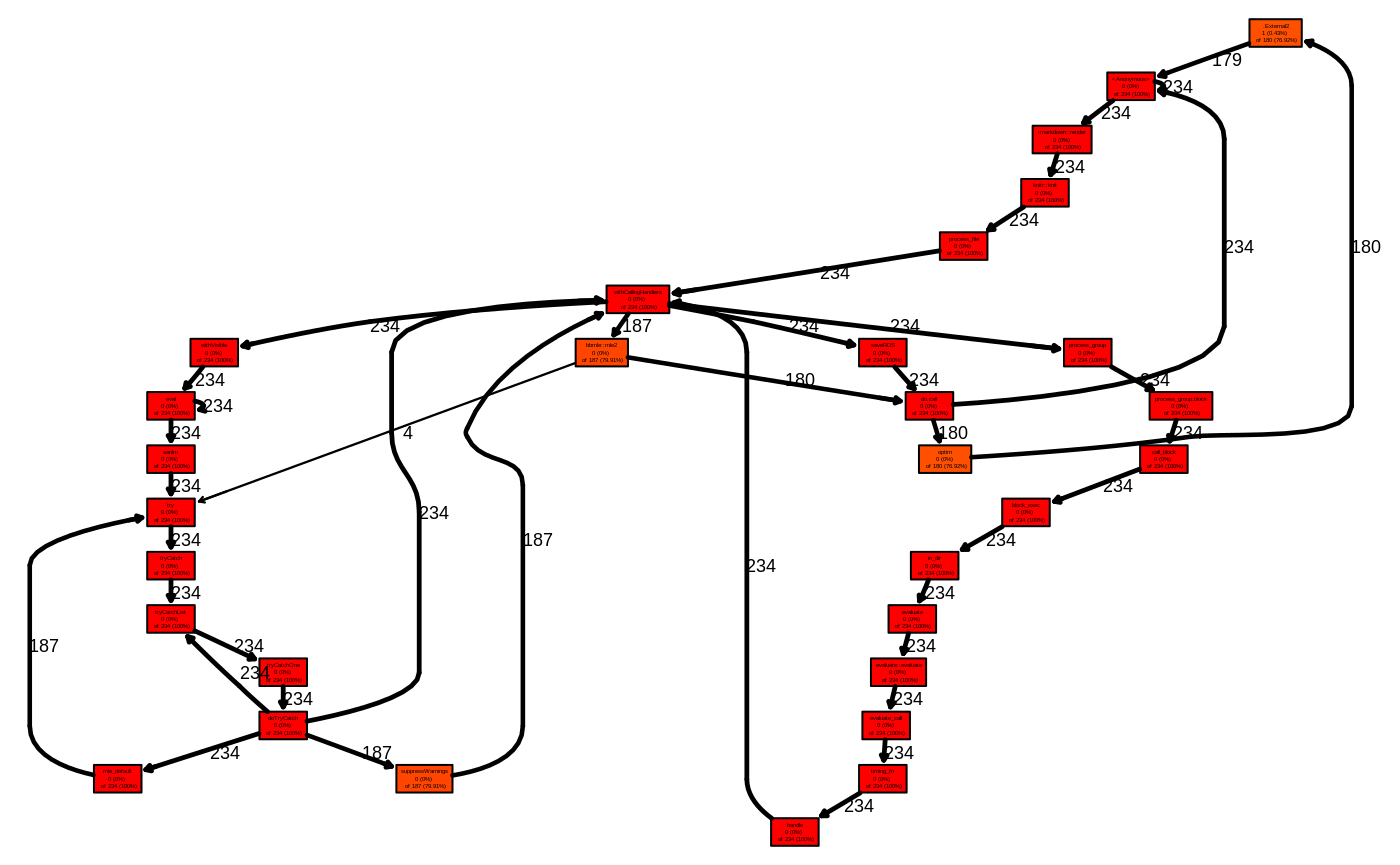
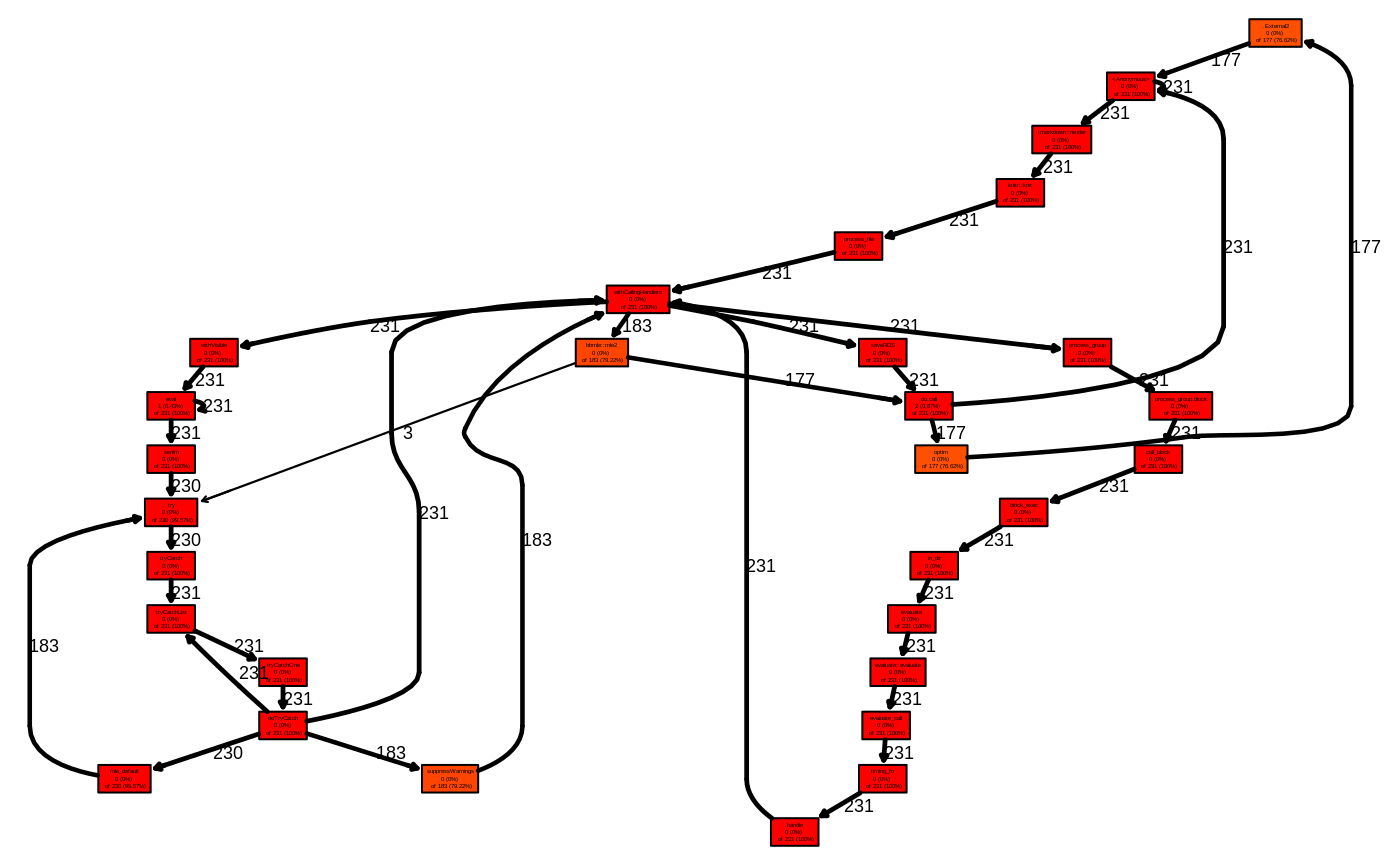
Built site for senlm: 0.1@ff31556

diff --git a/articles/performance_analysis.html b/articles/performance_analysis.html
@@ -139,83 +139,84 @@
 <a class="sourceLine" id="cb2-4" data-line-number="4">## --- Summarise the Profiling Data --- #</a>
 <a class="sourceLine" id="cb2-5" data-line-number="5"><span class="kw"><a href="https://rdrr.io/pkg/proftools/man/summaries.html">pathSummary</a></span>(pd)</a>
 <a class="sourceLine" id="cb2-6" data-line-number="6"><span class="co">#&gt;                                                    total.pct</span></a>
-<a class="sourceLine" id="cb2-7" data-line-number="7"><span class="co">#&gt; ...  fn -&gt; do.call -&gt; minuslogl -&gt; NLL.discrete        23.93</span></a>
-<a class="sourceLine" id="cb2-8" data-line-number="8"><span class="co">#&gt; ...  NLL.discrete -&gt; do.call -&gt; mu_gaussian             5.98</span></a>
-<a class="sourceLine" id="cb2-9" data-line-number="9"><span class="co">#&gt; ...  minuslogl -&gt; NLL.discrete -&gt; make_bounded          5.98</span></a>
-<a class="sourceLine" id="cb2-10" data-line-number="10"><span class="co">#&gt; ...  minuslogl -&gt; NLL.discrete -&gt; NLL.negbin            5.56</span></a>
-<a class="sourceLine" id="cb2-11" data-line-number="11"><span class="co">#&gt; ...  &lt;Anonymous&gt; -&gt; lazyLoadDBfetch                     5.56</span></a>
-<a class="sourceLine" id="cb2-12" data-line-number="12"><span class="co">#&gt; ...  optim -&gt; .External2 -&gt; &lt;Anonymous&gt; -&gt; fn           3.42</span></a>
-<a class="sourceLine" id="cb2-13" data-line-number="13"><span class="co">#&gt; ...  check_par_valid -&gt; make_bounded                    3.42</span></a>
-<a class="sourceLine" id="cb2-14" data-line-number="14"><span class="co">#&gt; ...  minuslogl -&gt; NLL.discrete -&gt; check_par_valid       2.99</span></a>
-<a class="sourceLine" id="cb2-15" data-line-number="15"><span class="co">#&gt; ...  do.call -&gt; minuslogl -&gt; NLL.discrete -&gt; sum        2.14</span></a>
-<a class="sourceLine" id="cb2-16" data-line-number="16"><span class="co">#&gt; ...  fn -&gt; relist2 -&gt; sapply -&gt; simplify2array          1.71</span></a>
-<a class="sourceLine" id="cb2-17" data-line-number="17"><span class="co">#&gt; ...  fn -&gt; relist2 -&gt; sapply -&gt; lapply                  1.71</span></a>
-<a class="sourceLine" id="cb2-18" data-line-number="18"><span class="co">#&gt; ...  do.call -&gt; mu_gaussian -&gt; as.list                  1.71</span></a>
-<a class="sourceLine" id="cb2-19" data-line-number="19"><span class="co">#&gt; ...  relist2 -&gt; sapply -&gt; simplify2array -&gt; unique      1.28</span></a>
-<a class="sourceLine" id="cb2-20" data-line-number="20"><span class="co">#&gt; ...  NLL.discrete -&gt; NLL.negbin -&gt; lfactorial           1.28</span></a>
-<a class="sourceLine" id="cb2-21" data-line-number="21"><span class="co">#&gt; ...  getGroupMembers -&gt; .recMembers -&gt; is               1.28</span></a>
-<a class="sourceLine" id="cb2-22" data-line-number="22"><span class="co">#&gt; ...  fn -&gt; relist2 -&gt; sapply -&gt; isFALSE                 1.28</span></a>
-<a class="sourceLine" id="cb2-23" data-line-number="23"><span class="co">#&gt; ...  do.call -&gt; minuslogl -&gt; NLL.discrete -&gt; $          1.28</span></a>
-<a class="sourceLine" id="cb2-24" data-line-number="24"><span class="co">#&gt; ...  do.call -&gt; minuslogl -&gt; NLL.discrete               1.28</span></a>
-<a class="sourceLine" id="cb2-25" data-line-number="25"><span class="co">#&gt; ...  &lt;Anonymous&gt; -&gt; fn -&gt; relist2 -&gt; sapply             1.28</span></a>
-<a class="sourceLine" id="cb2-26" data-line-number="26"><span class="co">#&gt; ...  &lt;Anonymous&gt; -&gt; fn -&gt; relist2 -&gt; as.list            1.28</span></a>
-<a class="sourceLine" id="cb2-27" data-line-number="27"><span class="co">#&gt; ...  .External2 -&gt; &lt;Anonymous&gt; -&gt; fn -&gt; order           1.28</span></a>
-<a class="sourceLine" id="cb2-28" data-line-number="28"><span class="co">#&gt; ...  simplify2array -&gt; unique -&gt; unique.default         0.85</span></a>
-<a class="sourceLine" id="cb2-29" data-line-number="29"><span class="co">#&gt; ...  relist2 -&gt; sapply -&gt; lapply -&gt; match.fun           0.85</span></a>
-<a class="sourceLine" id="cb2-30" data-line-number="30"><span class="co">#&gt; ...  NLL.discrete -&gt; NLL.negbin -&gt; sum                  0.85</span></a>
-<a class="sourceLine" id="cb2-31" data-line-number="31"><span class="co">#&gt; ...  namedrop -&gt; unique -&gt; unique.default               0.85</span></a>
-<a class="sourceLine" id="cb2-32" data-line-number="32"><span class="co">#&gt; ...  minuslogl -&gt; NLL.discrete -&gt; do.call -&gt; paste      0.85</span></a>
-<a class="sourceLine" id="cb2-33" data-line-number="33"><span class="co">#&gt; ...  .updateMethodsInTable                              0.85</span></a>
-<a class="sourceLine" id="cb2-34" data-line-number="34"><span class="co">#&gt; ...  .resetInheritedMethods                             0.85</span></a>
-<a class="sourceLine" id="cb2-35" data-line-number="35"><span class="co">#&gt; ...  .recacheSubclasses -&gt; sort.list -&gt; match.arg       0.85</span></a>
-<a class="sourceLine" id="cb2-36" data-line-number="36"><span class="co">#&gt; ...  .External2 -&gt; &lt;Anonymous&gt; -&gt; fn -&gt; namedrop        0.85</span></a>
-<a class="sourceLine" id="cb2-37" data-line-number="37"><span class="co">#&gt; ...  .cacheGeneric -&gt; .cacheGenericTable                0.85</span></a>
-<a class="sourceLine" id="cb2-38" data-line-number="38"><span class="co">#&gt; ...  sort.list -&gt; order -&gt; match.arg -&gt; pmatch          0.43</span></a>
-<a class="sourceLine" id="cb2-39" data-line-number="39"><span class="co">#&gt; ...  sapply -&gt; simplify2array -&gt; unique -&gt; lengths      0.43</span></a>
-<a class="sourceLine" id="cb2-40" data-line-number="40"><span class="co">#&gt; ...  optim -&gt; .External2 -&gt; &lt;Anonymous&gt; -&gt; fn -&gt; c      0.43</span></a>
-<a class="sourceLine" id="cb2-41" data-line-number="41"><span class="co">#&gt; ...  NLL.discrete -&gt; check_par_valid -&gt; any             0.43</span></a>
-<a class="sourceLine" id="cb2-42" data-line-number="42"><span class="co">#&gt; ...  NLL.discrete -&gt; check_par_valid -&gt; $               0.43</span></a>
-<a class="sourceLine" id="cb2-43" data-line-number="43"><span class="co">#&gt; ...  loadNamespace -&gt; namespaceExport                   0.43</span></a>
-<a class="sourceLine" id="cb2-44" data-line-number="44"><span class="co">#&gt; ...  list2env -&gt; as.list -&gt; as.list.default             0.43</span></a>
-<a class="sourceLine" id="cb2-45" data-line-number="45"><span class="co">#&gt; ...  lazyLoad -&gt; lazyLoadDBexec -&gt; readRDS              0.43</span></a>
-<a class="sourceLine" id="cb2-46" data-line-number="46"><span class="co">#&gt; ...  lapply -&gt; FUN -&gt; lapply -&gt; FUN -&gt; c                0.43</span></a>
-<a class="sourceLine" id="cb2-47" data-line-number="47"><span class="co">#&gt; ...  getGroupMembers -&gt; .recMembers -&gt; getGeneric       0.43</span></a>
-<a class="sourceLine" id="cb2-48" data-line-number="48"><span class="co">#&gt; ...  getGeneric -&gt; .getGeneric                          0.43</span></a>
-<a class="sourceLine" id="cb2-49" data-line-number="49"><span class="co">#&gt; ...  getFunction -&gt; get0 -&gt; lazyLoadDBfetch             0.43</span></a>
-<a class="sourceLine" id="cb2-50" data-line-number="50"><span class="co">#&gt; ...  getClassDef -&gt; get0 -&gt; lazyLoadDBfetch             0.43</span></a>
-<a class="sourceLine" id="cb2-51" data-line-number="51"><span class="co">#&gt; ...  get -&gt; lazyLoadDBfetch                             0.43</span></a>
-<a class="sourceLine" id="cb2-52" data-line-number="52"><span class="co">#&gt; ...  func -&gt; relist2 -&gt; sapply -&gt; lapply                0.43</span></a>
-<a class="sourceLine" id="cb2-53" data-line-number="53"><span class="co">#&gt; ...  func -&gt; do.call -&gt; minuslogl -&gt; NLL.discrete       0.43</span></a>
-<a class="sourceLine" id="cb2-54" data-line-number="54"><span class="co">#&gt; ...  fn -&gt; relist2 -&gt; as.list -&gt; as.list.default        0.43</span></a>
-<a class="sourceLine" id="cb2-55" data-line-number="55"><span class="co">#&gt; ...  fn -&gt; namedrop -&gt; seq -&gt; seq.default               0.43</span></a>
-<a class="sourceLine" id="cb2-56" data-line-number="56"><span class="co">#&gt; ...  fn -&gt; do.call -&gt; namedrop -&gt; unique                0.43</span></a>
-<a class="sourceLine" id="cb2-57" data-line-number="57"><span class="co">#&gt; ...  fn -&gt; do.call -&gt; namedrop -&gt; seq                   0.43</span></a>
-<a class="sourceLine" id="cb2-58" data-line-number="58"><span class="co">#&gt; ...  cacheGenericsMetaData                              0.43</span></a>
-<a class="sourceLine" id="cb2-59" data-line-number="59"><span class="co">#&gt; ...  body&lt;- -&gt; body&lt;- -&gt; as -&gt; .getMethodsTable         0.43</span></a>
-<a class="sourceLine" id="cb2-60" data-line-number="60"><span class="co">#&gt; ...  bbmle::mle2 -&gt; do.call -&gt; optim -&gt; .External2      0.43</span></a>
-<a class="sourceLine" id="cb2-61" data-line-number="61"><span class="co">#&gt; ...  &lt;Anonymous&gt; -&gt; fn -&gt; namedrop -&gt; seq               0.43</span></a>
-<a class="sourceLine" id="cb2-62" data-line-number="62"><span class="co">#&gt; ...  .resetInheritedMethods -&gt; is -&gt; .identC            0.43</span></a>
+<a class="sourceLine" id="cb2-7" data-line-number="7"><span class="co">#&gt; ...  fn -&gt; do.call -&gt; minuslogl -&gt; NLL.discrete        18.18</span></a>
+<a class="sourceLine" id="cb2-8" data-line-number="8"><span class="co">#&gt; ...  &lt;Anonymous&gt; -&gt; lazyLoadDBfetch                     8.66</span></a>
+<a class="sourceLine" id="cb2-9" data-line-number="9"><span class="co">#&gt; ...  NLL.discrete -&gt; do.call -&gt; mu_gaussian             6.06</span></a>
+<a class="sourceLine" id="cb2-10" data-line-number="10"><span class="co">#&gt; ...  minuslogl -&gt; NLL.discrete -&gt; NLL.negbin            5.19</span></a>
+<a class="sourceLine" id="cb2-11" data-line-number="11"><span class="co">#&gt; ...  relist2 -&gt; sapply -&gt; simplify2array -&gt; unlist      4.76</span></a>
+<a class="sourceLine" id="cb2-12" data-line-number="12"><span class="co">#&gt; ...  minuslogl -&gt; NLL.discrete -&gt; make_bounded          4.33</span></a>
+<a class="sourceLine" id="cb2-13" data-line-number="13"><span class="co">#&gt; ...  NLL.discrete -&gt; NLL.negbin -&gt; lfactorial           3.03</span></a>
+<a class="sourceLine" id="cb2-14" data-line-number="14"><span class="co">#&gt; ...  do.call -&gt; mu_gaussian -&gt; as.list                  3.03</span></a>
+<a class="sourceLine" id="cb2-15" data-line-number="15"><span class="co">#&gt; ...  check_par_valid -&gt; make_bounded                    3.03</span></a>
+<a class="sourceLine" id="cb2-16" data-line-number="16"><span class="co">#&gt; ...  simplify2array -&gt; unique -&gt; unique.default         2.60</span></a>
+<a class="sourceLine" id="cb2-17" data-line-number="17"><span class="co">#&gt; ...  optim -&gt; .External2 -&gt; &lt;Anonymous&gt; -&gt; fn           2.60</span></a>
+<a class="sourceLine" id="cb2-18" data-line-number="18"><span class="co">#&gt; ...  fn -&gt; do.call -&gt; namedrop -&gt; unique                2.60</span></a>
+<a class="sourceLine" id="cb2-19" data-line-number="19"><span class="co">#&gt; ...  fn -&gt; relist2 -&gt; sapply -&gt; lapply                  2.16</span></a>
+<a class="sourceLine" id="cb2-20" data-line-number="20"><span class="co">#&gt; ...  do.call -&gt; minuslogl -&gt; NLL.discrete -&gt; sum        2.16</span></a>
+<a class="sourceLine" id="cb2-21" data-line-number="21"><span class="co">#&gt; ...  fn -&gt; relist2 -&gt; sapply -&gt; lapply -&gt; FUN           1.73</span></a>
+<a class="sourceLine" id="cb2-22" data-line-number="22"><span class="co">#&gt; ...  relist2 -&gt; sapply -&gt; simplify2array -&gt; unique      1.30</span></a>
+<a class="sourceLine" id="cb2-23" data-line-number="23"><span class="co">#&gt; ...  minuslogl -&gt; NLL.discrete -&gt; check_par_valid       1.30</span></a>
+<a class="sourceLine" id="cb2-24" data-line-number="24"><span class="co">#&gt; ...  .External2 -&gt; &lt;Anonymous&gt; -&gt; fn -&gt; relist2         1.30</span></a>
+<a class="sourceLine" id="cb2-25" data-line-number="25"><span class="co">#&gt; ...  unique -&gt; unique.default -&gt; is.factor              0.87</span></a>
+<a class="sourceLine" id="cb2-26" data-line-number="26"><span class="co">#&gt; ...  namedrop -&gt; unique -&gt; unique.default               0.87</span></a>
+<a class="sourceLine" id="cb2-27" data-line-number="27"><span class="co">#&gt; ...  fn -&gt; namedrop -&gt; seq -&gt; seq.default               0.87</span></a>
+<a class="sourceLine" id="cb2-28" data-line-number="28"><span class="co">#&gt; ...  do.call -&gt; minuslogl -&gt; NLL.discrete -&gt; $          0.87</span></a>
+<a class="sourceLine" id="cb2-29" data-line-number="29"><span class="co">#&gt; ...  &lt;Anonymous&gt; -&gt; fn -&gt; namedrop -&gt; seq               0.87</span></a>
+<a class="sourceLine" id="cb2-30" data-line-number="30"><span class="co">#&gt; ...  &lt;Anonymous&gt; -&gt; fn -&gt; do.call -&gt; minuslogl          0.87</span></a>
+<a class="sourceLine" id="cb2-31" data-line-number="31"><span class="co">#&gt; ...  .resetInheritedMethods                             0.87</span></a>
+<a class="sourceLine" id="cb2-32" data-line-number="32"><span class="co">#&gt; ...  .recMembers -&gt; getGeneric -&gt; genericForBasic       0.87</span></a>
+<a class="sourceLine" id="cb2-33" data-line-number="33"><span class="co">#&gt; ...  .External2 -&gt; &lt;Anonymous&gt; -&gt; fn -&gt; unlist          0.87</span></a>
+<a class="sourceLine" id="cb2-34" data-line-number="34"><span class="co">#&gt; ...  sort.list -&gt; match.arg -&gt; eval                     0.43</span></a>
+<a class="sourceLine" id="cb2-35" data-line-number="35"><span class="co">#&gt; ...  Recall -&gt; .checkGroupSigLength -&gt; is               0.43</span></a>
+<a class="sourceLine" id="cb2-36" data-line-number="36"><span class="co">#&gt; ...  nlminb -&gt; .Call -&gt; objective -&gt; order              0.43</span></a>
+<a class="sourceLine" id="cb2-37" data-line-number="37"><span class="co">#&gt; ...  NLL.discrete -&gt; do.call -&gt; is.list                 0.43</span></a>
+<a class="sourceLine" id="cb2-38" data-line-number="38"><span class="co">#&gt; ...  NLL.discrete -&gt; check_par_valid -&gt; $               0.43</span></a>
+<a class="sourceLine" id="cb2-39" data-line-number="39"><span class="co">#&gt; ...  mu_gaussian -&gt; as.list -&gt; as.list.default          0.43</span></a>
+<a class="sourceLine" id="cb2-40" data-line-number="40"><span class="co">#&gt; ...  minuslogl -&gt; NLL.discrete -&gt; do.call -&gt; paste      0.43</span></a>
+<a class="sourceLine" id="cb2-41" data-line-number="41"><span class="co">#&gt; ...  minuslogl -&gt; NLL.discrete -&gt; do.call               0.43</span></a>
+<a class="sourceLine" id="cb2-42" data-line-number="42"><span class="co">#&gt; ...  methodsPackageMetaName -&gt; paste                    0.43</span></a>
+<a class="sourceLine" id="cb2-43" data-line-number="43"><span class="co">#&gt; ...  lapply -&gt; FUN -&gt; readRDS -&gt; gzfile                 0.43</span></a>
+<a class="sourceLine" id="cb2-44" data-line-number="44"><span class="co">#&gt; ...  lapply -&gt; FUN -&gt; lapply -&gt; FUN                     0.43</span></a>
+<a class="sourceLine" id="cb2-45" data-line-number="45"><span class="co">#&gt; ...  is -&gt; getClassDef -&gt; .getClassesFromCache          0.43</span></a>
+<a class="sourceLine" id="cb2-46" data-line-number="46"><span class="co">#&gt; ...  is -&gt; .identC -&gt; class                             0.43</span></a>
+<a class="sourceLine" id="cb2-47" data-line-number="47"><span class="co">#&gt; ...  getGroupMembers -&gt; .recMembers -&gt; is               0.43</span></a>
+<a class="sourceLine" id="cb2-48" data-line-number="48"><span class="co">#&gt; ...  getClassDef -&gt; get0 -&gt; lazyLoadDBfetch             0.43</span></a>
+<a class="sourceLine" id="cb2-49" data-line-number="49"><span class="co">#&gt; ...  func -&gt; relist2 -&gt; sapply -&gt; simplify2array        0.43</span></a>
+<a class="sourceLine" id="cb2-50" data-line-number="50"><span class="co">#&gt; ...  func -&gt; do.call -&gt; minuslogl -&gt; NLL.discrete       0.43</span></a>
+<a class="sourceLine" id="cb2-51" data-line-number="51"><span class="co">#&gt; ...  fn -&gt; relist2 -&gt; sapply -&gt; simplify2array          0.43</span></a>
+<a class="sourceLine" id="cb2-52" data-line-number="52"><span class="co">#&gt; ...  fn -&gt; relist2 -&gt; as.list -&gt; as.list.default        0.43</span></a>
+<a class="sourceLine" id="cb2-53" data-line-number="53"><span class="co">#&gt; ...  fn -&gt; do.call -&gt; namedrop -&gt; seq                   0.43</span></a>
+<a class="sourceLine" id="cb2-54" data-line-number="54"><span class="co">#&gt; ...  eval -&gt; loadingNamespaceInfo -&gt; dynGet             0.43</span></a>
+<a class="sourceLine" id="cb2-55" data-line-number="55"><span class="co">#&gt; ...  eval -&gt; lazyLoad -&gt; lazyLoadDBexec -&gt; readRDS      0.43</span></a>
+<a class="sourceLine" id="cb2-56" data-line-number="56"><span class="co">#&gt; ...  do.call -&gt; minuslogl -&gt; NLL.discrete               0.43</span></a>
+<a class="sourceLine" id="cb2-57" data-line-number="57"><span class="co">#&gt; ...  as.data.frame.character -&gt; factor -&gt; force         0.43</span></a>
+<a class="sourceLine" id="cb2-58" data-line-number="58"><span class="co">#&gt; ...  &lt;Anonymous&gt; -&gt; fn -&gt; relist2 -&gt; sapply             0.43</span></a>
+<a class="sourceLine" id="cb2-59" data-line-number="59"><span class="co">#&gt; ...  &lt;Anonymous&gt; -&gt; fn -&gt; relist2 -&gt; as.list            0.43</span></a>
+<a class="sourceLine" id="cb2-60" data-line-number="60"><span class="co">#&gt; ...  &lt;Anonymous&gt; -&gt; fn -&gt; do.call -&gt; namedrop           0.43</span></a>
+<a class="sourceLine" id="cb2-61" data-line-number="61"><span class="co">#&gt; ...  &lt;Anonymous&gt; -&gt; .findInheritedMethods -&gt; @&lt;-        0.43</span></a>
+<a class="sourceLine" id="cb2-62" data-line-number="62"><span class="co">#&gt; ...  .updateMethodsInTable -&gt; .checkGroupSigLength      0.43</span></a>
 <a class="sourceLine" id="cb2-63" data-line-number="63"><span class="co">#&gt; ...  .resetInheritedMethods -&gt; is                       0.43</span></a>
-<a class="sourceLine" id="cb2-64" data-line-number="64"><span class="co">#&gt; ...  .recMembers -&gt; getGeneric -&gt; is -&gt; .identC         0.43</span></a>
-<a class="sourceLine" id="cb2-65" data-line-number="65"><span class="co">#&gt; ...  .recMembers -&gt; getGeneric -&gt; is                    0.43</span></a>
-<a class="sourceLine" id="cb2-66" data-line-number="66"><span class="co">#&gt; ...  .recMembers -&gt; getGeneric -&gt; genericForBasic       0.43</span></a>
-<a class="sourceLine" id="cb2-67" data-line-number="67"><span class="co">#&gt; ...  .getGenericFromCacheTable -&gt; exists                0.43</span></a>
-<a class="sourceLine" id="cb2-68" data-line-number="68"><span class="co">#&gt; ...  .getGenericFromCacheTable                          0.43</span></a>
-<a class="sourceLine" id="cb2-69" data-line-number="69"><span class="co">#&gt; ...  .External2 -&gt; &lt;Anonymous&gt; -&gt; fn -&gt; unlist          0.43</span></a>
-<a class="sourceLine" id="cb2-70" data-line-number="70"><span class="co">#&gt; ...  .External2 -&gt; &lt;Anonymous&gt; -&gt; fn -&gt; relist2         0.43</span></a>
-<a class="sourceLine" id="cb2-71" data-line-number="71"><span class="co">#&gt; ...  .checkGroupSigLength -&gt; getGroupMembers            0.43</span></a>
-<a class="sourceLine" id="cb2-72" data-line-number="72"><span class="co">#&gt; ...  .cacheClass -&gt; is -&gt; getClassDef                   0.43</span></a>
-<a class="sourceLine" id="cb2-73" data-line-number="73"><span class="co">#&gt; ...  .cacheClass -&gt; .extendsForS3 -&gt; extends -&gt; is      0.43</span></a>
-<a class="sourceLine" id="cb2-74" data-line-number="74"><span class="co">#&gt; ...  .cacheClass -&gt; .extendsForS3 -&gt; extends            0.43</span></a>
-<a class="sourceLine" id="cb2-75" data-line-number="75">##funSummary(pd)</a>
-<a class="sourceLine" id="cb2-76" data-line-number="76">##callSummary(pd)</a>
-<a class="sourceLine" id="cb2-77" data-line-number="77">##hotPaths(pd)</a>
-<a class="sourceLine" id="cb2-78" data-line-number="78">##flatProfile(pd)</a>
-<a class="sourceLine" id="cb2-79" data-line-number="79"></a>
-<a class="sourceLine" id="cb2-80" data-line-number="80">## --- Annotate Sourcecode with Profiling Data -- #</a>
-<a class="sourceLine" id="cb2-81" data-line-number="81"><span class="co"># annotateSource is very useful, but won't work within a vignette.</span></a>
-<a class="sourceLine" id="cb2-82" data-line-number="82"><span class="co">#annotateSource(pd, show = TRUE)</span></a>
-<a class="sourceLine" id="cb2-83" data-line-number="83">##srcSummary(pd)</a></code></pre></div>
+<a class="sourceLine" id="cb2-64" data-line-number="64"><span class="co">#&gt; ...  .recacheSubclasses -&gt; .cacheClass                  0.43</span></a>
+<a class="sourceLine" id="cb2-65" data-line-number="65"><span class="co">#&gt; ...  .mergeMethodsTable -&gt; is -&gt; .identC                0.43</span></a>
+<a class="sourceLine" id="cb2-66" data-line-number="66"><span class="co">#&gt; ...  .getGeneric -&gt; .getGenericFromCache                0.43</span></a>
+<a class="sourceLine" id="cb2-67" data-line-number="67"><span class="co">#&gt; ...  .External2 -&gt; &lt;Anonymous&gt; -&gt; fn -&gt; namedrop        0.43</span></a>
+<a class="sourceLine" id="cb2-68" data-line-number="68"><span class="co">#&gt; ...  .External2 -&gt; &lt;Anonymous&gt; -&gt; fn -&gt; do.call         0.43</span></a>
+<a class="sourceLine" id="cb2-69" data-line-number="69"><span class="co">#&gt; ...  .checkGroupSigLength -&gt; lapply                     0.43</span></a>
+<a class="sourceLine" id="cb2-70" data-line-number="70"><span class="co">#&gt; ...  .checkGroupSigLength -&gt; is                         0.43</span></a>
+<a class="sourceLine" id="cb2-71" data-line-number="71"><span class="co">#&gt; ...  .cacheGeneric -&gt; .cacheGenericTable                0.43</span></a>
+<a class="sourceLine" id="cb2-72" data-line-number="72"><span class="co">#&gt; ...  .cacheClass -&gt; isFALSE -&gt; is                       0.43</span></a>
+<a class="sourceLine" id="cb2-73" data-line-number="73"><span class="co">#&gt; ...  .cacheClass -&gt; .recacheSubclasses                  0.43</span></a>
+<a class="sourceLine" id="cb2-74" data-line-number="74"><span class="co">#&gt; ...  .cacheClass -&gt; .extendsForS3 -&gt; extends -&gt; is      0.43</span></a>
+<a class="sourceLine" id="cb2-75" data-line-number="75"><span class="co">#&gt; ...  .cacheClass -&gt; .extendsForS3 -&gt; extends            0.43</span></a>
+<a class="sourceLine" id="cb2-76" data-line-number="76">##funSummary(pd)</a>
+<a class="sourceLine" id="cb2-77" data-line-number="77">##callSummary(pd)</a>
+<a class="sourceLine" id="cb2-78" data-line-number="78">##hotPaths(pd)</a>
+<a class="sourceLine" id="cb2-79" data-line-number="79">##flatProfile(pd)</a>
+<a class="sourceLine" id="cb2-80" data-line-number="80"></a>
+<a class="sourceLine" id="cb2-81" data-line-number="81">## --- Annotate Sourcecode with Profiling Data -- #</a>
+<a class="sourceLine" id="cb2-82" data-line-number="82"><span class="co"># annotateSource is very useful, but won't work within a vignette.</span></a>
+<a class="sourceLine" id="cb2-83" data-line-number="83"><span class="co">#annotateSource(pd, show = TRUE)</span></a>
+<a class="sourceLine" id="cb2-84" data-line-number="84">##srcSummary(pd)</a></code></pre></div>
   </div>
 
   <div class="col-md-3 hidden-xs hidden-sm" id="sidebar">

diff --git a/articles/senlm.html b/articles/senlm.html
@@ -1086,7 +1086,7 @@ P(Y_i=y_i \mid \theta_M, ~\theta_E, ~\theta_C, ~x_i)
 <a class="sourceLine" id="cb36-6" data-line-number="6"></a>
 <a class="sourceLine" id="cb36-7" data-line-number="7"><span class="op">$</span>theta</a>
 <a class="sourceLine" id="cb36-8" data-line-number="8">          H           m           s          pi </a>
-<a class="sourceLine" id="cb36-9" data-line-number="9"><span class="fl">817.5307516</span> <span class="fl">917.8020557</span> <span class="fl">225.5627489</span>   <span class="fl">0.5954255</span> </a>
+<a class="sourceLine" id="cb36-9" data-line-number="9"><span class="fl">817.5307635</span> <span class="fl">917.8020692</span> <span class="fl">225.5627540</span>   <span class="fl">0.5954255</span> </a>
 <a class="sourceLine" id="cb36-10" data-line-number="10"></a>
 <a class="sourceLine" id="cb36-11" data-line-number="11"><span class="op">$</span>IC</a>
 <a class="sourceLine" id="cb36-12" data-line-number="12">    npar      nll      AIC     AICc      BIC </a>
